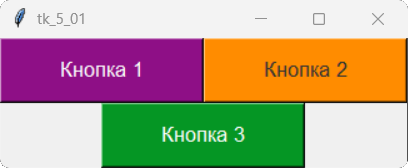
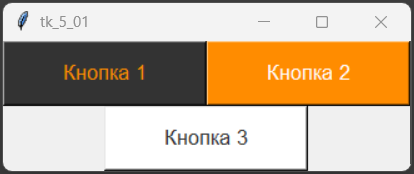
20260507 14/45 У темі 5 рамки обведені графітовим кольором

diff --git a/topics/tk_topic5.html b/topics/tk_topic5.html
@@ -328,10 +328,12 @@ windows.mainloop()
                     </div>
 
 
-                    <p>2. Розмістіть у вікні кнопку за зразком 2. Та додайте обробник події для неї, щоб при натисканні під кнопкою відображалося повідомлення "I like Tkinter". Файл з кодом програми збережіть у власну папку з іменем tk_5_02.py.</p>
+                    <p>2. Розмістіть у вікні кнопку за зразком 2. Додайте обробник події для неї, щоб при натисканні під кнопкою відображалося повідомлення "I like Tkinter". Файл з кодом програми збережіть у власну папку з іменем tk_5_02.py.</p>
                     <p><i>Зразок 2</i></p>
                     <div class="example-image" style=" text-align: center;">
-                        <img src="../images/tkinter/topic1/task_5_2.png" alt="Завдання Tk" style="width: 300px;">       
+                        <img src="../images/tkinter/topic1/task_5_2.png" alt="Завдання Tk" style="width: 300px;">  
+                        <p></p>
+                        <img src="../images/tkinter/topic1/task_5_3.png" alt="Завдання Tk" style="width: 300px;"> 
                     </div>
 
                 </div>
